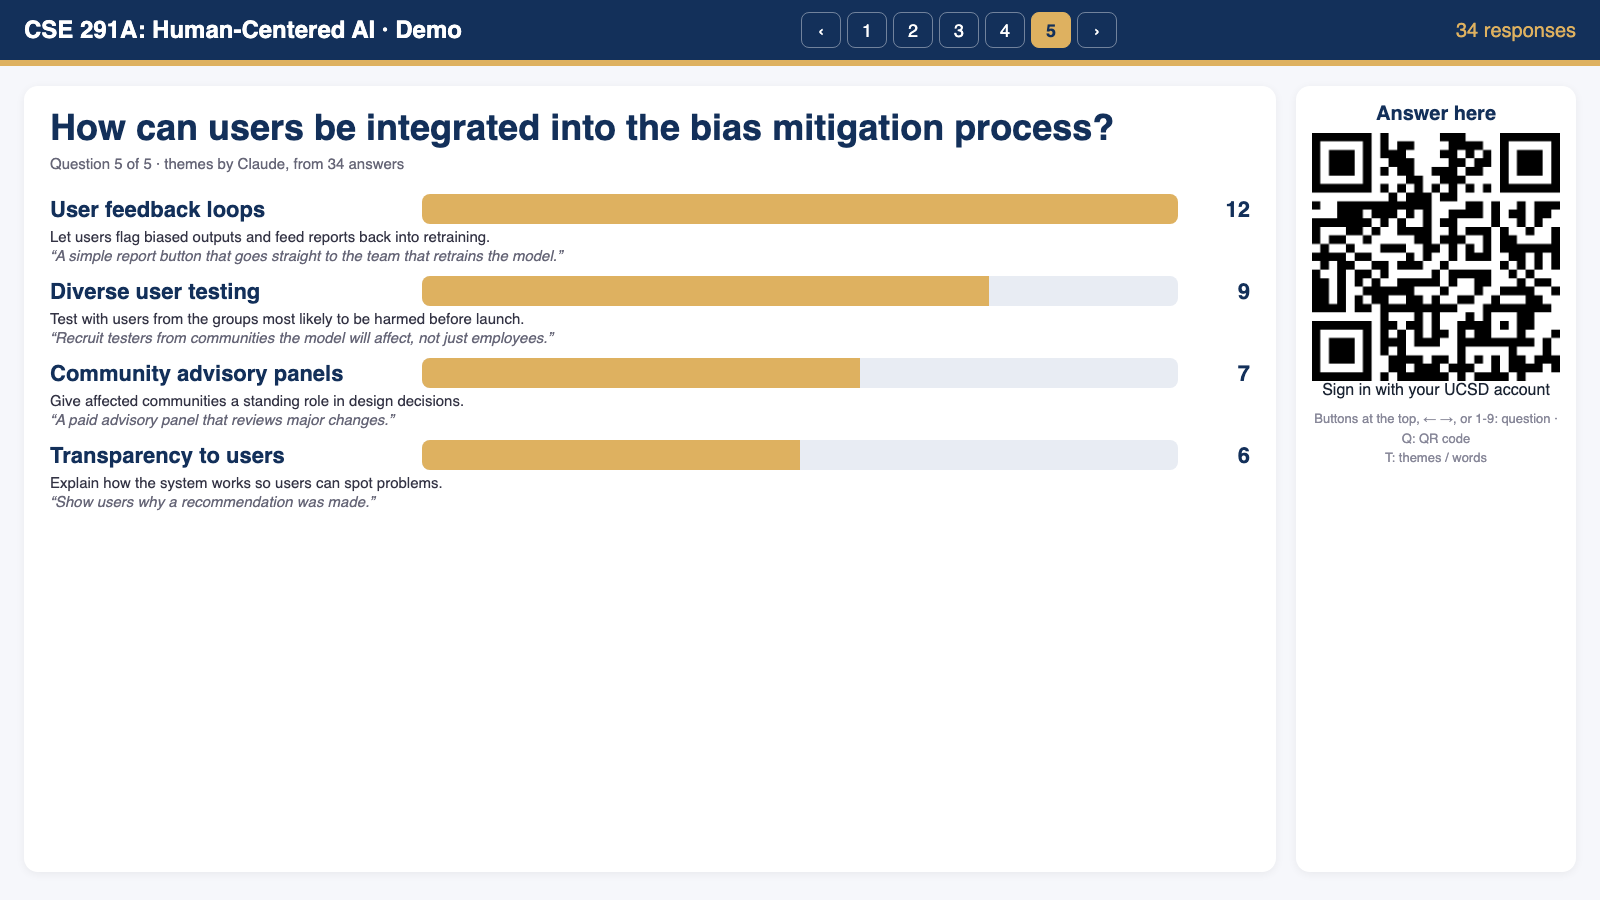
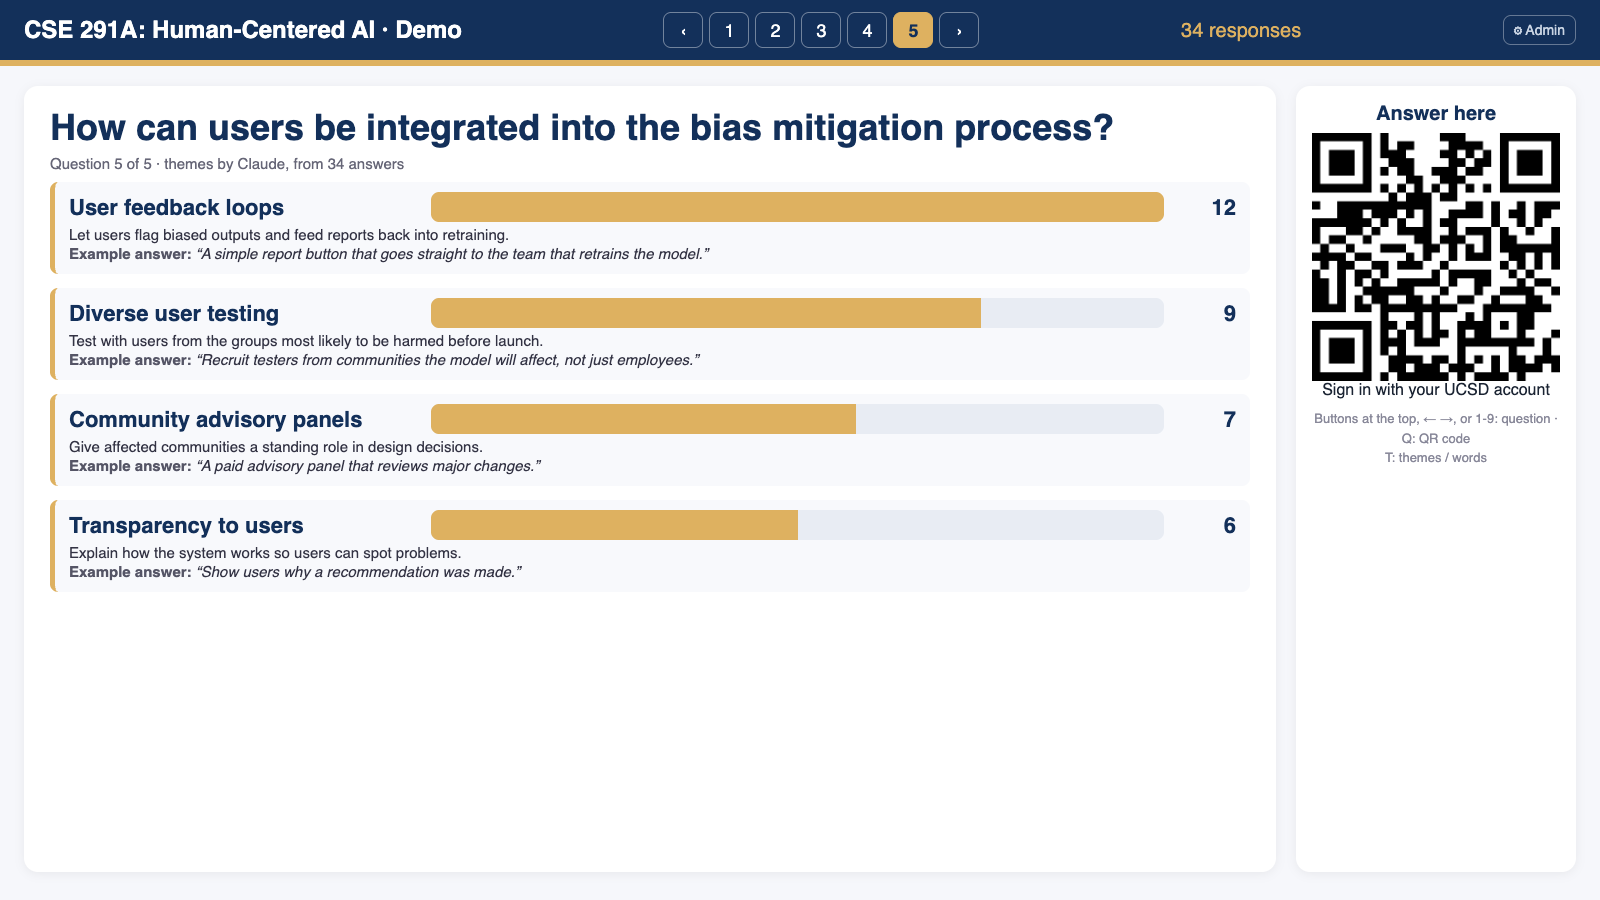
Board: group each theme with its example; example must belong to its theme

diff --git a/docs/index.html b/docs/index.html
@@ -36,13 +36,15 @@ main{display:flex;gap:20px;padding:20px 24px;height:calc(100vh - 74px)}
 .grow .seg{height:100%;color:#fff;font-size:14px;display:flex;align-items:center;justify-content:center;transition:width .5s;white-space:nowrap;overflow:hidden}
 .legend{display:flex;flex-wrap:wrap;gap:14px;font-size:15px;margin:6px 0 4px}
 .legend i{display:inline-block;width:14px;height:14px;border-radius:3px;margin-right:6px;vertical-align:-2px}
-.theme{margin:12px 0}
+.theme{margin:0 0 14px;padding:10px 14px 12px;border-left:5px solid var(--gold);background:#f8f9fc;border-radius:8px}
 .theme .head{display:flex;align-items:center;gap:12px;font-size:clamp(16px,1.6vw,22px);font-weight:700;color:var(--navy)}
 .theme .trk{flex:1;background:var(--track);border-radius:8px;height:30px;overflow:hidden}
 .theme .fill{height:100%;background:var(--gold);transition:width .5s}
 .theme .cnt{width:60px;text-align:right}
 .theme .sum{font-size:15px;color:#334;margin:4px 0 2px}
-.theme .ex{font-size:15px;color:var(--muted);font-style:italic}
+.theme .ex{font-size:15px;color:var(--muted)}
+.theme .ex b{font-style:normal;color:#556;font-weight:600}
+.theme .ex i{color:#334}
 #cloud{width:100%;height:100%;display:block}
 aside{width:280px;background:#fff;border-radius:14px;padding:16px;text-align:center;box-shadow:0 2px 10px rgba(0,0,0,.06)}
 aside .h{font-weight:700;color:var(--navy);font-size:20px;margin-bottom:8px}
@@ -135,7 +137,7 @@ function draw(force) {
   } else if (showThemes) {
     const max = Math.max(1, ...th.themes.map(t => t.count));
     for (const t of th.themes) {
-      v.insertAdjacentHTML('beforeend', `<div class="theme"><div class="head"><span style="min-width:30%">${esc(t.label)}</span><div class="trk"><div class="fill" style="width:${Math.round(100 * t.count / max)}%"></div></div><span class="cnt">${t.count}</span></div><div class="sum">${esc(t.summary)}</div>${t.example ? `<div class="ex">“${esc(t.example)}”</div>` : ''}</div>`);
+      v.insertAdjacentHTML('beforeend', `<div class="theme"><div class="head"><span style="min-width:30%">${esc(t.label)}</span><div class="trk"><div class="fill" style="width:${Math.round(100 * t.count / max)}%"></div></div><span class="cnt">${t.count}</span></div><div class="sum">${esc(t.summary)}</div>${t.example ? `<div class="ex"><b>Example answer:</b> <i>“${esc(t.example)}”</i></div>` : ''}</div>`);
     }
   } else {
     const c = document.createElement('canvas'); c.id = 'cloud'; v.appendChild(c);

diff --git a/CLAUDE.md b/CLAUDE.md
@@ -64,3 +64,4 @@ Slido-style live poll board on Google Forms for CSE 291A (Fall 2026). Owner: Nad
 - README rewritten around the shared course folder and the admin page.
 - 2026-10-05 Admin: Remove question (form + response Sheet to Drive trash, trigger removed, warns if answers) and Add question installs its trigger immediately. Admin deployment Version 6.
 - 2026-10-06 Class instances: course field `term` (cse291a = "Fall 2026", in SEED_COURSE; no forms touched), dropdown label "title (term)", Board links tab edits title/term (slug fixed). New course: Term + "Copy questions from" (copies questions/types/choices per week via describeForm_ -> specFromForm_, never answers). syncTriggers skips courses ended more than a week ago (courseEnded_). Board shows title + term when the endpoint sends `course` (public deployment still Version 3, which doesn't; board falls back to config.js title). Admin deployment Version 7. Verified 2026-10-06 morning: Week 2 board loads, endpoint and Firebase return the 3 Week 2 forms.
+- 2026-10-06 Themes layout: each theme boxed (gold edge) with label, bar, summary and 'Example answer'; examples verified correct on Week 2 Q1 (49 answers, 5 themes). Board.gs: example forced to an answer assigned to its theme (live with next public redeploy).
